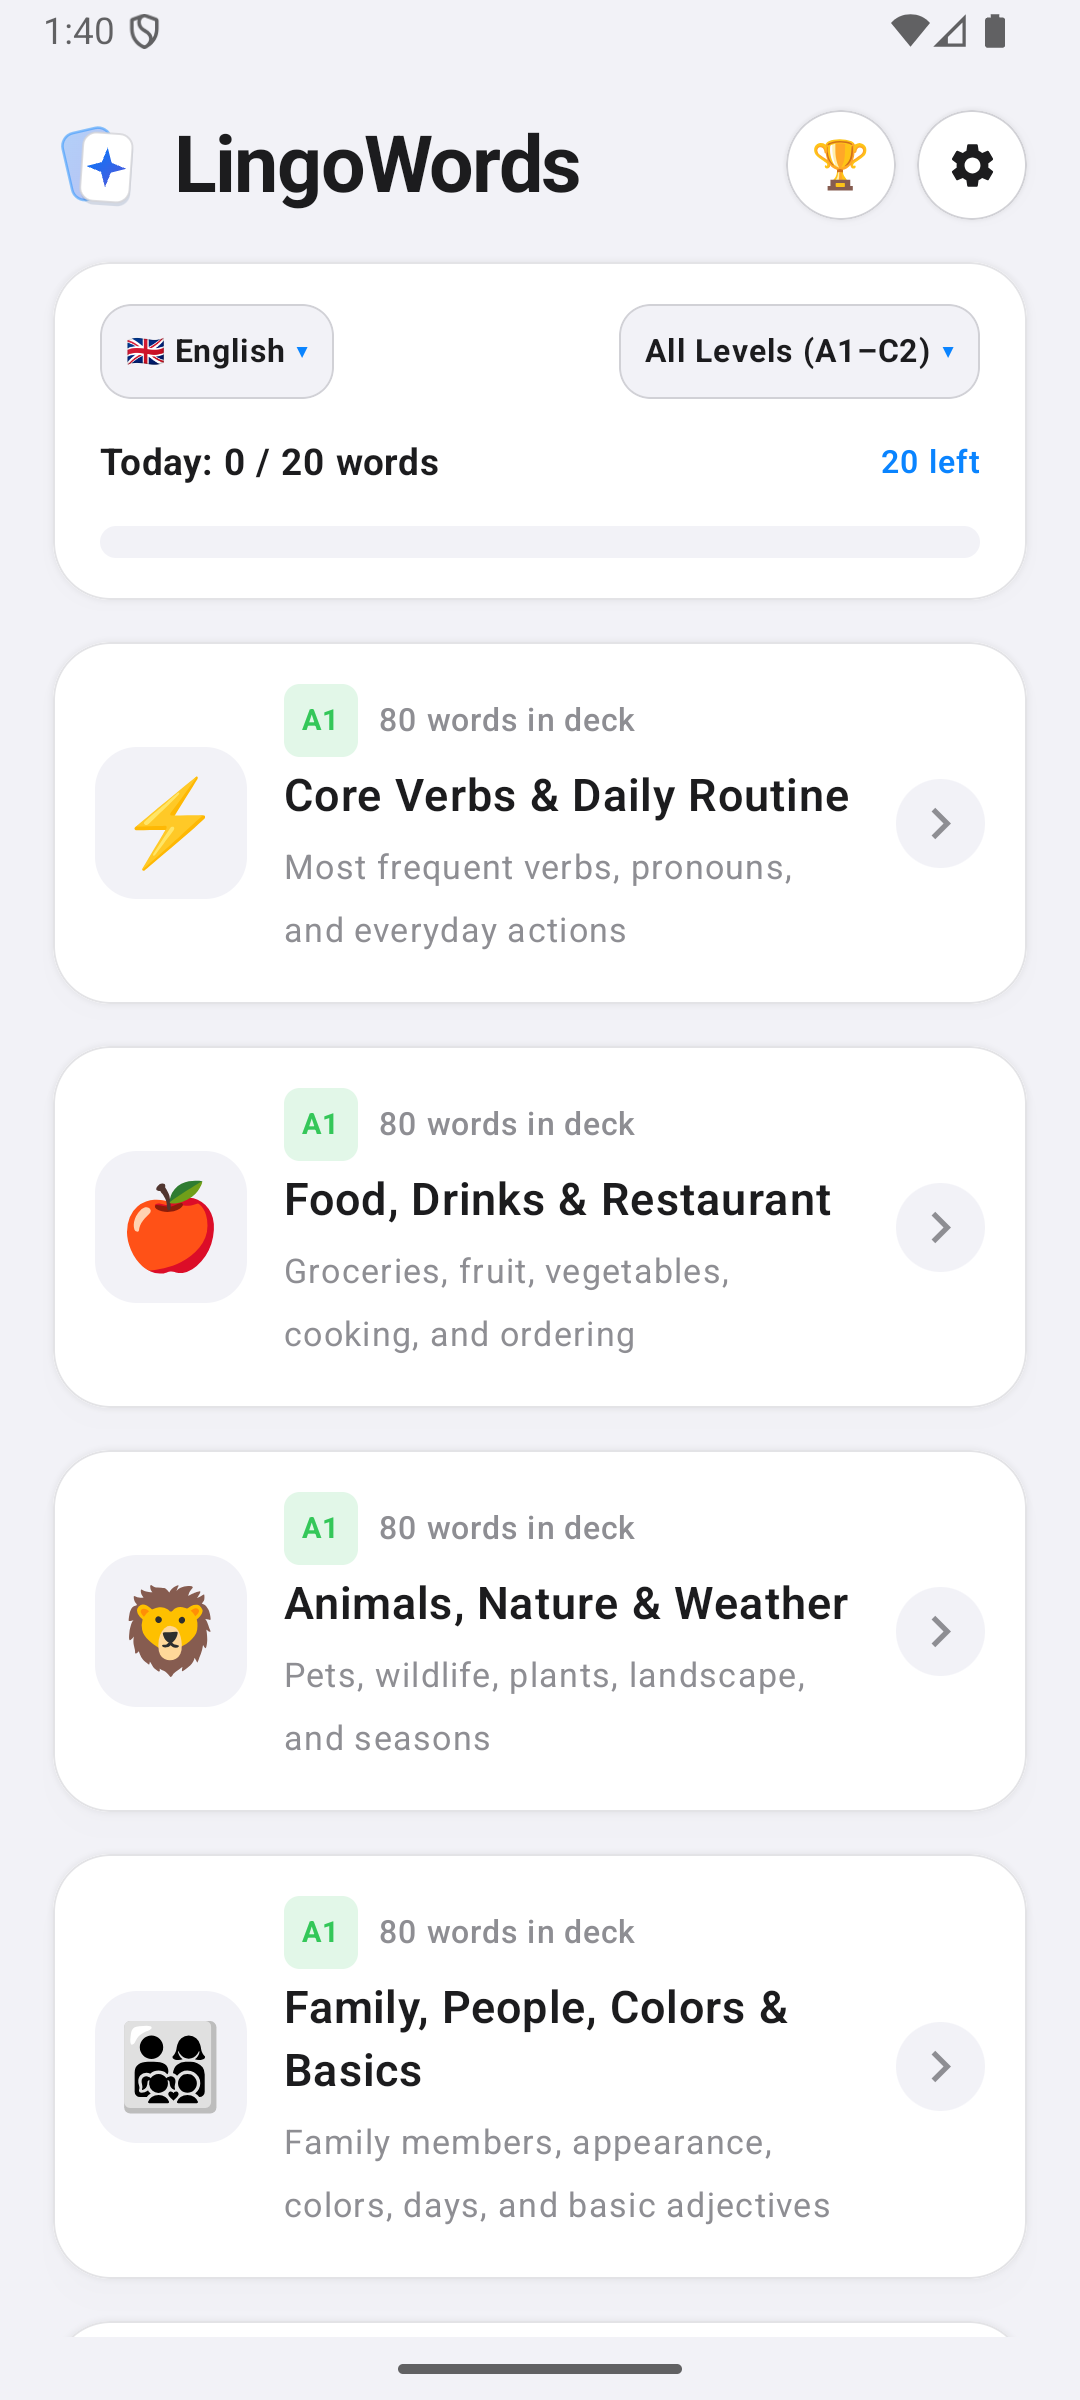
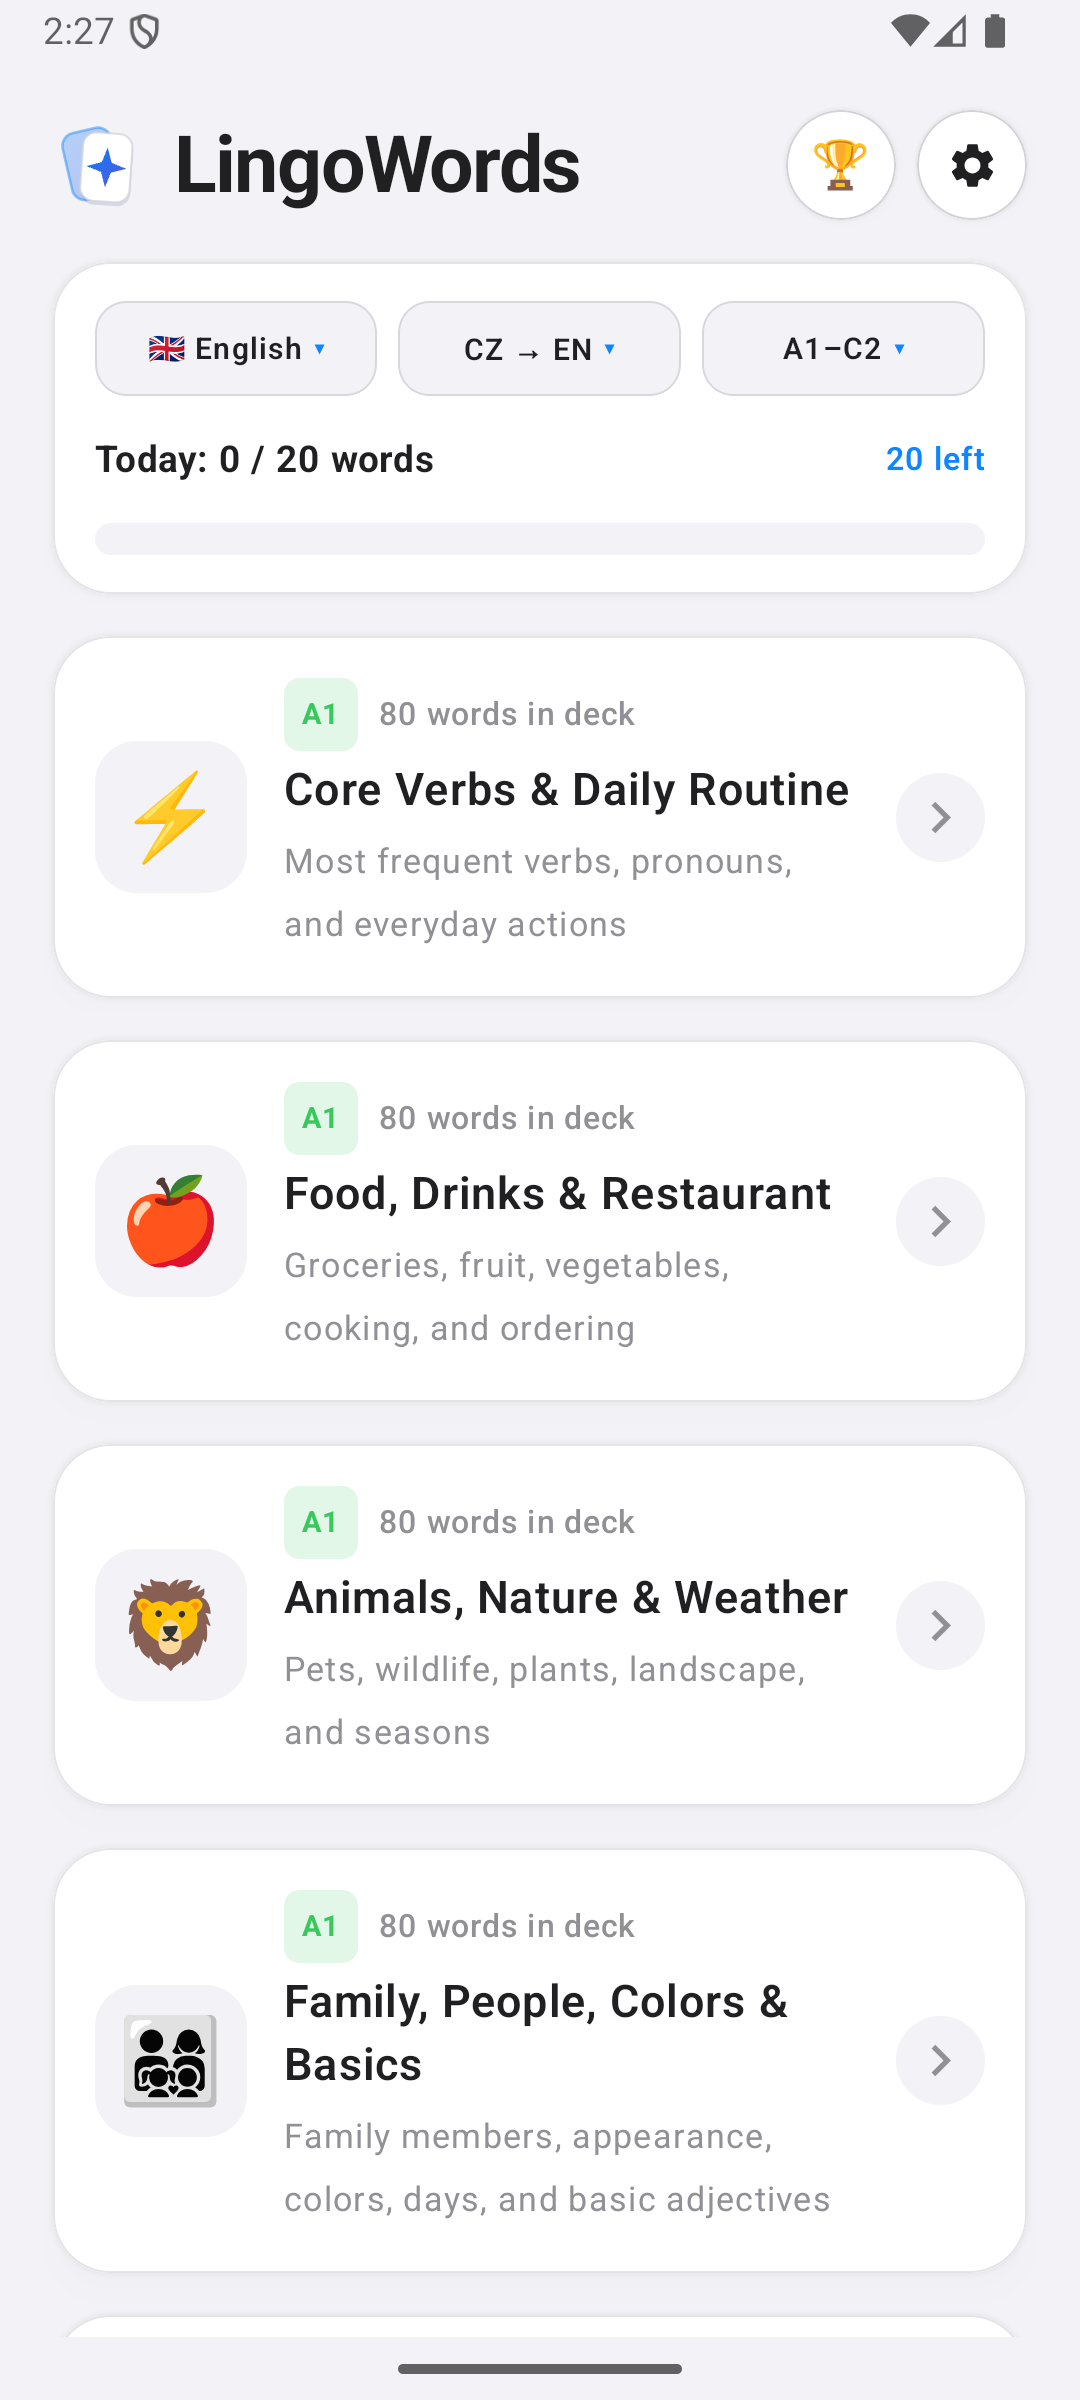
release: LingoWords v1.6.14

diff --git a/app/src/main/java/cz/slovickaspeak/app/ui/DeckSelectionScreen.kt b/app/src/main/java/cz/slovickaspeak/app/ui/DeckSelectionScreen.kt
@@ -34,6 +34,7 @@ import androidx.compose.ui.graphics.drawscope.Stroke
 import androidx.compose.ui.graphics.drawscope.rotate
 import androidx.compose.ui.platform.LocalConfiguration
 import androidx.compose.ui.text.font.FontWeight
+import androidx.compose.ui.text.style.TextOverflow
 import androidx.compose.ui.unit.dp
 import androidx.compose.ui.unit.sp
 import androidx.compose.ui.window.Dialog
@@ -491,30 +492,37 @@ private fun DeckHeaderRow(
 @Composable
 private fun FilterDropdownPill(
     label: String,
+    modifier: Modifier = Modifier,
     onClick: () -> Unit
 ) {
     Surface(
         shape = RoundedCornerShape(12.dp),
         color = SurfaceBg,
-        border = BorderStroke(0.5.dp, CardBorderGray),
-        modifier = Modifier
+        border = BorderStroke(0.75.dp, CardBorderGray.copy(alpha = 0.85f)),
+        modifier = modifier
+            .height(36.dp)
             .clip(RoundedCornerShape(12.dp))
             .clickable(onClick = onClick)
     ) {
         Row(
-            modifier = Modifier.padding(horizontal = 10.dp, vertical = 6.dp),
+            modifier = Modifier
+                .fillMaxSize()
+                .padding(horizontal = 6.dp),
             verticalAlignment = Alignment.CenterVertically,
-            horizontalArrangement = Arrangement.spacedBy(4.dp)
+            horizontalArrangement = Arrangement.spacedBy(4.dp, Alignment.CenterHorizontally)
         ) {
             Text(
                 text = label,
-                fontSize = 12.sp,
-                fontWeight = FontWeight.Bold,
-                color = TextDark
+                fontSize = 11.5.sp,
+                fontWeight = FontWeight.SemiBold,
+                color = TextDark,
+                maxLines = 1,
+                softWrap = false,
+                overflow = TextOverflow.Ellipsis
             )
             Text(
                 text = "▾",
-                fontSize = 12.sp,
+                fontSize = 11.sp,
                 fontWeight = FontWeight.Bold,
                 color = AppleBlue
             )
@@ -549,18 +557,19 @@ private fun DeckGoalIndicatorCard(
             .shadow(6.dp, RoundedCornerShape(22.dp), spotColor = Color.Black.copy(alpha = 0.05f))
     ) {
         Column(
-            modifier = Modifier.padding(horizontal = 18.dp, vertical = 16.dp),
+            modifier = Modifier.padding(horizontal = 16.dp, vertical = 15.dp),
             verticalArrangement = Arrangement.spacedBy(12.dp)
         ) {
             Row(
                 modifier = Modifier.fillMaxWidth(),
-                horizontalArrangement = Arrangement.SpaceBetween,
+                horizontalArrangement = Arrangement.spacedBy(8.dp),
                 verticalAlignment = Alignment.CenterVertically
             ) {
                 // Learning Language Dropdown
-                Box {
+                Box(modifier = Modifier.weight(1f)) {
                     FilterDropdownPill(
                         label = "${selectedLanguage.flagEmoji} ${selectedLanguage.localizedTitle(strings.isCzech)}",
+                        modifier = Modifier.fillMaxWidth(),
                         onClick = { languageDropdownExpanded = true }
                     )
 
@@ -585,10 +594,40 @@ private fun DeckGoalIndicatorCard(
                     }
                 }
 
-                // CEFR Level Dropdown
-                Box {
+                // Study Direction Dropdown (CZ -> EN / EN -> CZ / Mix)
+                Box(modifier = Modifier.weight(1f)) {
                     FilterDropdownPill(
-                        label = selectedLevel?.let { it.label } ?: strings.allLevelsLabel,
+                        label = studyDirection.shortLabel(selectedLanguage),
+                        modifier = Modifier.fillMaxWidth(),
+                        onClick = { directionDropdownExpanded = true }
+                    )
+
+                    DropdownMenu(
+                        expanded = directionDropdownExpanded,
+                        onDismissRequest = { directionDropdownExpanded = false }
+                    ) {
+                        StudyDirection.entries.forEach { dir ->
+                            DropdownMenuItem(
+                                text = {
+                                    Text(
+                                        text = dir.localizedDescription(strings.isCzech, selectedLanguage),
+                                        fontWeight = if (studyDirection == dir) FontWeight.Bold else FontWeight.Medium
+                                    )
+                                },
+                                onClick = {
+                                    onSelectDirection(dir)
+                                    directionDropdownExpanded = false
+                                }
+                            )
+                        }
+                    }
+                }
+
+                // CEFR Level Dropdown (compact A1-C2 label on pill, full description in menu)
+                Box(modifier = Modifier.weight(1f)) {
+                    FilterDropdownPill(
+                        label = selectedLevel?.label ?: "A1–C2",
+                        modifier = Modifier.fillMaxWidth(),
                         onClick = { levelDropdownExpanded = true }
                     )
 
@@ -619,47 +658,6 @@ private fun DeckGoalIndicatorCard(
                                 onClick = {
                                     onSelectLevel(level)
                                     levelDropdownExpanded = false
-                                }
-                            )
-                        }
-                    }
-                }
-            }
-
-            // Study Direction Row (CZ -> EN / EN -> CZ / Mix)
-            Row(
-                modifier = Modifier.fillMaxWidth(),
-                horizontalArrangement = Arrangement.SpaceBetween,
-                verticalAlignment = Alignment.CenterVertically
-            ) {
-                Text(
-                    text = if (strings.isCzech) "Směr učení" else "Study direction",
-                    fontSize = 12.sp,
-                    fontWeight = FontWeight.Medium,
-                    color = TextMuted
-                )
-
-                Box {
-                    FilterDropdownPill(
-                        label = studyDirection.shortLabel(selectedLanguage),
-                        onClick = { directionDropdownExpanded = true }
-                    )
-
-                    DropdownMenu(
-                        expanded = directionDropdownExpanded,
-                        onDismissRequest = { directionDropdownExpanded = false }
-                    ) {
-                        StudyDirection.entries.forEach { dir ->
-                            DropdownMenuItem(
-                                text = {
-                                    Text(
-                                        text = dir.localizedDescription(strings.isCzech, selectedLanguage),
-                                        fontWeight = if (studyDirection == dir) FontWeight.Bold else FontWeight.Medium
-                                    )
-                                },
-                                onClick = {
-                                    onSelectDirection(dir)
-                                    directionDropdownExpanded = false
                                 }
                             )
                         }
